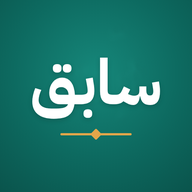
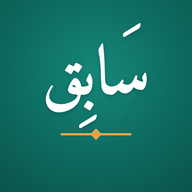
r113: Amiri title with tashkeel, Fatir 32 tagline, about card
Claude-Session: https://claude.ai/code/session_014DLXS9Wj83MAhL3K5P6ukQ

Changed region(s): [[0.1562, 0.2188, 0.8438, 0.6875], [0.625, 0.125, 0.75, 0.1875]]

diff --git a/index.html b/index.html
@@ -456,6 +456,8 @@ header.hero .emblem .e1{fill:#0d6a60}header.hero .emblem svg{filter:drop-shadow(
 .tgo{position:absolute;left:12px;bottom:12px;width:34px;height:34px;border-radius:50%;background:var(--accent-soft);color:var(--accent);display:grid;place-items:center}
 .tgo svg{width:18px;height:18px}
 .tile .tmain .tline{padding-left:40px}
+.tagv{font-family:var(--f-quran);font-size:1.45rem;line-height:2;color:var(--accent);text-align:center;margin:0}
+.sptag{font-family:var(--f-quran);font-size:1.2rem;margin:6px 0 0;opacity:.95}
 .n40play{display:flex;align-items:center;justify-content:center;gap:8px;margin:0 0 10px}
 .n40play svg{width:18px;height:18px}
 .rlisten{display:grid;place-items:center;width:38px;height:38px;padding:0;border-radius:50%}
@@ -1560,7 +1562,7 @@ function focusSura(){
   const head = document.querySelector('.rhead'), y = el.getBoundingClientRect().top + window.scrollY - (head ? head.offsetHeight : 0) - 12;
   window.scrollTo(0, Math.max(0, y)); el.classList.add('flash');
 }
-const back = (to = 'home') => `<div class="top"><span class="brand">سابق</span><button class="x" data-act="tab" data-v="${to}">رجوع</button></div>`;
+const back = (to = 'home') => `<div class="top"><span class="brand">سَابِق</span><button class="x" data-act="tab" data-v="${to}">رجوع</button></div>`;
 const seg = (act, opts, cur, cols) => `<div class="seg" style="grid-template-columns:repeat(${cols || opts.length},1fr)" role="group">${opts.map(([v, l]) => `<button data-act="${act}" data-v="${v}" aria-pressed="${String(cur) === String(v)}">${l}</button>`).join('')}</div>`;
 
 /* ---------- home: four choices ---------- */
@@ -1981,6 +1983,7 @@ function vSettings(){
   ${confirmBox === 'reset' ? `<div class="confirm"><p>سيُمسح كل التقدّم ولا يمكن استرجاعه.</p><div class="rnav"><button class="btn danger" data-act="resetYes">امسح</button><button class="btn ghost" data-act="cancel">إلغاء</button></div></div>` : '<button class="btn danger" data-act="ask" data-v="reset">مسح كل البيانات</button>'}</div>
   ${IN_CLAUDE || STANDALONE ? '' : installGuide()}
   ${shareCard()}
+  <div class="card abouttag"><h3>عن «سابق»</h3><p class="tagv">﴿وَمِنۡهُمۡ سَابِقُۢ بِٱلۡخَيۡرَٰتِ بِإِذۡنِ ٱللَّهِ﴾</p><p class="muted">اسم التطبيق من قوله تعالى في سورة فاطر (الآية ٣٢) عن الذين أورثهم الله الكتاب، وأعلاهم منزلة السابق بالخيرات. نسأل الله أن يجعلنا منهم.</p></div>
   <div class="card"><h3>عن النص</h3><p class="muted">صفحات المصحف: مصحف المدينة النبوية (طبعة ١٤٤١هـ) بخط عثمان طه، بخطوط مجمع الملك فهد لطباعة المصحف الشريف، وبيانات الصفحات من مشروع quran-qcf4. مصحف التجويد الملوّن: خطوط مجمع الملك فهد (الإصدار الرابع، ١٤٤١هـ) كما تنشرها مكتبة QUL، للعرض المجاني فقط. نص الحفظ بالرسم العثماني من موسوعة القرآن الكريم (quranenc.com). حدود الأرباع والأجزاء من مشروع quran-meta. محرك التسميع الدقيق: نموذج tarteel-ai/whisper-base-ar-quran من Tarteel AI (رخصة Apache 2.0)، مضغوط ليعمل على الجوال بمكتبة Transformers.js. التلاوات الصوتية: من خدمة Islamic Network (alquran.cloud) للاستخدام التعليمي المجاني، وحقوقها لأصحابها من القرّاء. صوت الأذان: مقطع من تسجيل أذان المغرب في المسجد الحرام (٢٥ فبراير ٢٠١٢) من تسجيل 3omar Faruq، برخصة المشاع الإبداعي CC BY 3.0، عبر ويكيميديا كومنز. أذكار الصباح والمساء: من كتاب «حصن المسلم» للشيخ سعيد بن علي بن وهف القحطاني رحمه الله.</p></div>`;
   return h;
 }
@@ -2972,7 +2975,7 @@ const dpAll = l => `<button class="btn soft rqall" data-act="dpPlay" data-v="all
 function vDua(){
   if (DUA_CH){
     const [ci, j] = DUA_CH, [cat, chs] = DUA_H[ci], [title, its] = chs[j];
-    let h = `<div class="top"><span class="brand">سابق</span><button class="x" data-act="duaBack">رجوع</button></div><div><small class="muted">${cat}</small><h1 class="duah1">${esc(title)}</h1></div>`;
+    let h = `<div class="top"><span class="brand">سَابِق</span><button class="x" data-act="duaBack">رجوع</button></div><div><small class="muted">${cat}</small><h1 class="duah1">${esc(title)}</h1></div>`;
     h += dpAll(its.length > 1 ? 'استمع لأدعية الموضوع متتابعة' : 'استمع');
     h += its.map(([x, r], n) => { const key = `h:${ci}.${j}.${n}`; return `<div class="card dcard" data-dk="${key}"><p class="adt">${esc(x)}</p><div class="dsrc"><span>${r > 1 ? `<b>${AR(r)} ${r <= 10 ? 'مرات' : 'مرة'}</b>` : ''}</span>${dpBtn(key)}</div></div>`; }).join('');
     h += `<p class="muted adksrc">من كتاب «حصن المسلم» للشيخ سعيد بن علي بن وهف القحطاني رحمه الله.</p>`;
@@ -3049,7 +3052,7 @@ async function pdfLib(){
 }
 function vBook(){
   const b = HAJJ_BOOKS[BK.i];
-  return `<main class="bookv"><div class="top"><span class="brand">سابق</span><button class="x" data-act="tab" data-v="lib">رجوع</button></div>
+  return `<main class="bookv"><div class="top"><span class="brand">سَابِق</span><button class="x" data-act="tab" data-v="lib">رجوع</button></div>
     <h2>${b[1]}</h2><p class="muted">${b[2]}</p>
     <div id="bkPages" class="bkpages">${BK.err ? '<p class="err">تعذّر فتح الكتاب على هذا الجهاز.</p>' : BK.doc ? '' : '<p class="muted">جاري فتح الكتاب...</p>'}</div></main>`;
 }
@@ -3137,7 +3140,7 @@ function haToggle(){
   if (HA.el.src !== N40A_URL){ HA.el.src = N40A_URL; HA.el.addEventListener('loadedmetadata', go, {once: true}); HA.el.load(); } else if (HA.el.readyState >= 1) go(); else HA.el.addEventListener('loadedmetadata', go, {once: true});
 }
 function vN40h(){
-  let h = `<main><div class="top"><span class="brand">سابق</span><button class="x" data-act="tab" data-v="n40">رجوع</button></div>`;
+  let h = `<main><div class="top"><span class="brand">سَابِق</span><button class="x" data-act="tab" data-v="n40">رجوع</button></div>`;
   if (!N40) return h + n40Wait() + '</main>';
   const x = N40.h[n40Cur - 1], sz = (S.n40 && S.n40.size) || 1;
   h += `<div class="n40head"><span class="n40pos">${AR(x.n)} من ٤٢</span><h1>${x.title}</h1><div class="n40size"><button class="x" data-act="n40Size" data-v="-1" aria-label="تصغير الخط">أ-</button><button class="x" data-act="n40Size" data-v="1" aria-label="تكبير الخط">أ+</button></div></div>
@@ -3222,6 +3225,7 @@ function installGuide(){
 }
 /* Share the app with a friend: the link and how to install it, ready to send (WhatsApp, Telegram...). */
 const SHARE_TXT = `تطبيق «سابق» لحفظ القرآن الكريم ومراجعته وتسميعه بالصوت، مجاني وبلا إعلانات.
+﴿وَمِنْهُمْ سَابِقٌ بِالْخَيْرَاتِ بِإِذْنِ اللَّهِ﴾
 
 الرابط:
 https://thabbit.learnoschools.com
@@ -3305,7 +3309,7 @@ if ('serviceWorker' in navigator && location.protocol === 'https:' && !IN_CLAUDE
 /* The phone keeps the app open in the background, so a new version would only arrive after a full restart.
    When the app comes back to the screen, check a tiny version file and reload if there is a newer version
    (only when nothing is in progress, so no recitation or session is interrupted). */
-const BUILD = 'r112';
+const BUILD = 'r113';
 function checkUpdate(){
   if (sess || REC || !navigator.onLine) return;
   fetch('version.txt?t=' + Date.now(), {cache: 'no-store'}).then(r => r.ok ? r.text() : '').then(v => { v = v.trim(); if (v && v !== BUILD && !sess && !REC) location.reload(); }).catch(() => {});
@@ -3570,7 +3574,7 @@ function splash(){
   if (navigator.webdriver) return;   // automated tests
   const el = document.createElement('div'); el.className = 'splash';
   const close = () => { el.classList.add('out'); setTimeout(() => el.remove(), 450); };
-  const plain = () => { el.classList.remove('pic'); el.innerHTML = `<div class="spin">${EMBLEM}<h1>سابق</h1><p>لحفظ القرآن الكريم</p><span class="gdiv"></span>
+  const plain = () => { el.classList.remove('pic'); el.innerHTML = `<div class="spin">${EMBLEM}<h1>سَابِق</h1><p>لحفظ القرآن الكريم</p><span class="gdiv"></span><p class="sptag">﴿وَمِنۡهُمۡ سَابِقُۢ بِٱلۡخَيۡرَٰتِ بِإِذۡنِ ٱللَّهِ﴾</p>
     <button class="spbtn" type="button">اللهم اغفر لصاحب هذا العمل</button></div>`; el.querySelector('.spbtn').addEventListener('click', close); };
   el.classList.add('pic');
   el.innerHTML = `<img class="spblur" src="splash.jpg" alt=""><img class="spmain" src="splash.jpg" alt=""><button class="sphit" type="button" aria-label="اللهم اغفر لصاحب هذا العمل"></button>`;
